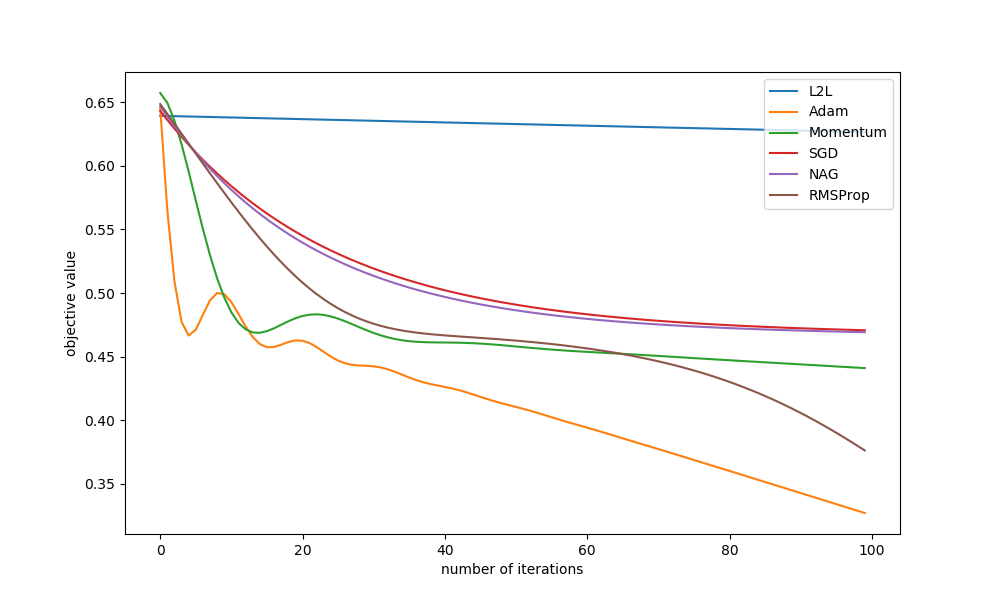
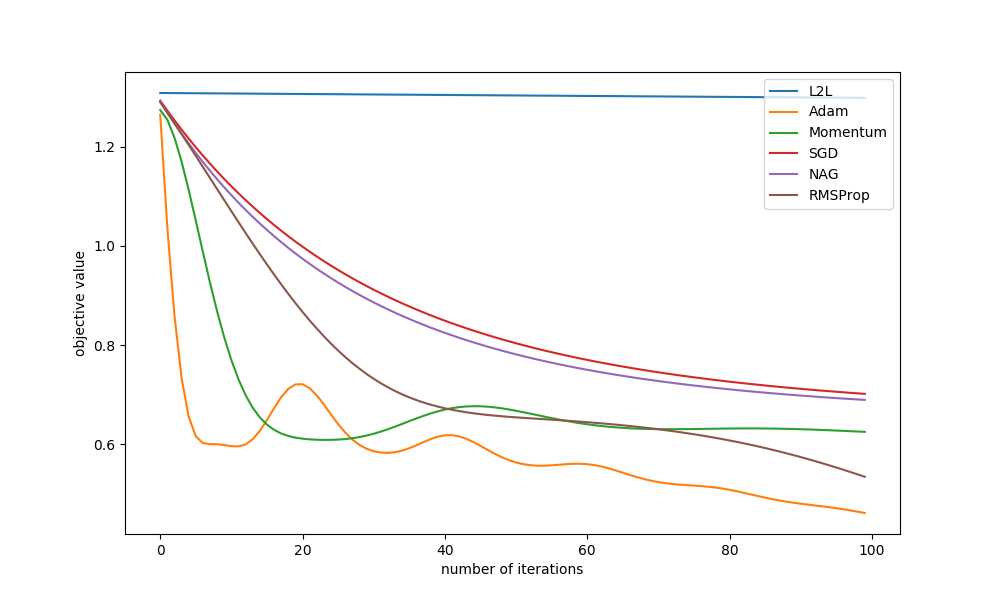
contour looks normal, loss straight line

diff --git a/plot-old.py b/plot-old.py
@@ -16,17 +16,8 @@ import matplotlib.mlab as mlab
 import matplotlib
 
 
-def f_sin(x, y):
+def f(x, y):
   return np.sin(x) ** 10 + np.cos(10 + y * x) * np.cos(x)
-
-
-def f_quad(X1, X2, W, Y):
-  Z = np.ndarray(shape=X1.shape, dtype=X1.dtype)
-  for i in range(X1.shape[0]):
-    for j in range(X1.shape[1]):
-      Z[i, j] = LA.norm((W.dot(np.asarray([X1[i, j], X2[i, j]], dtype=X1.dtype)) - Y))
-      #Z[i, j] = LA.norm((W @ np.asarray([X1[i, j], X2[i, j]], dtype=X1.dtype) - Y))
-  return Z
 
 
 def main():
@@ -46,8 +37,7 @@ def main():
     plt.figure(figsize=(10, 6))
     for optimizer in optimizers:
       obj[optimizer] = list(
-        map(lambda x: LA.norm(problems_w[prob_idx].dot(x) - problems_b[prob_idx]) ** 2,
-            x[optimizer][prob_idx]))
+        map(lambda x: LA.norm(problems_w[prob_idx].dot(x) - np.transpose(problems_b[prob_idx])) ** 2, x[optimizer][prob_idx]))
       plt.plot(obj[optimizer], label=optimizer)
     plt.legend(loc='upper right')
     plt.xlabel('number of iterations')
@@ -70,10 +60,13 @@ def main():
     # # plot level set and trajectory for SGD
     # W = 0.5 * np.eye(2)
     # Y = 0.5 * np.ones(2)
-  optimizer = 'SGD'
+  optimizer = 'L2L'
   for prob_idx in range(prob_num):
     W = problems_w[prob_idx]
     Y = problems_b[prob_idx]
+    A = W.transpose().dot(W)
+    b = 2 * W.transpose().dot(Y)
+    delta = 0.001
     minx = np.min(x[optimizer][prob_idx][:, 0])
     miny = np.min(x[optimizer][prob_idx][:, 1])
     maxx = np.max(x[optimizer][prob_idx][:, 0])
@@ -82,12 +75,13 @@ def main():
     max_plot = max(maxx, maxy)
     t_min = min_plot - 0.3 * (max_plot - min_plot)
     t_max = max_plot + 0.3 * (max_plot - min_plot)
-    x1 = np.linspace(t_min, t_max, num=50)
-    x2 = np.linspace(t_min, t_max, num=50)
+    x1 = np.arange(t_min, t_max, delta)
+    x2 = np.arange(t_min, t_max, delta)
     X1, X2 = np.meshgrid(x1, x2)
-    Z = f_quad(X1, X2, W, Y)
+    F = A[0, 0] * X1 ** 2 + A[1, 1] * X2 ** 2 + (A[0, 1] + A[1, 0]) * X1 * X2 - b[0] * X1 - b[1] * X2 + LA.norm(
+      Y) ** 2
     plt.figure()
-    plt.contourf(X1, X2, Z, 100, cmap='RdGy')
+    plt.contourf(X1, X2, F, 100, cmap='RdGy')
     plt.colorbar()
     plt.axes().set_aspect('equal')
     plt.axis([t_min, t_max, t_min, t_max])
@@ -100,4 +94,3 @@ def main():
 
 if __name__ == "__main__":
   main()
-
